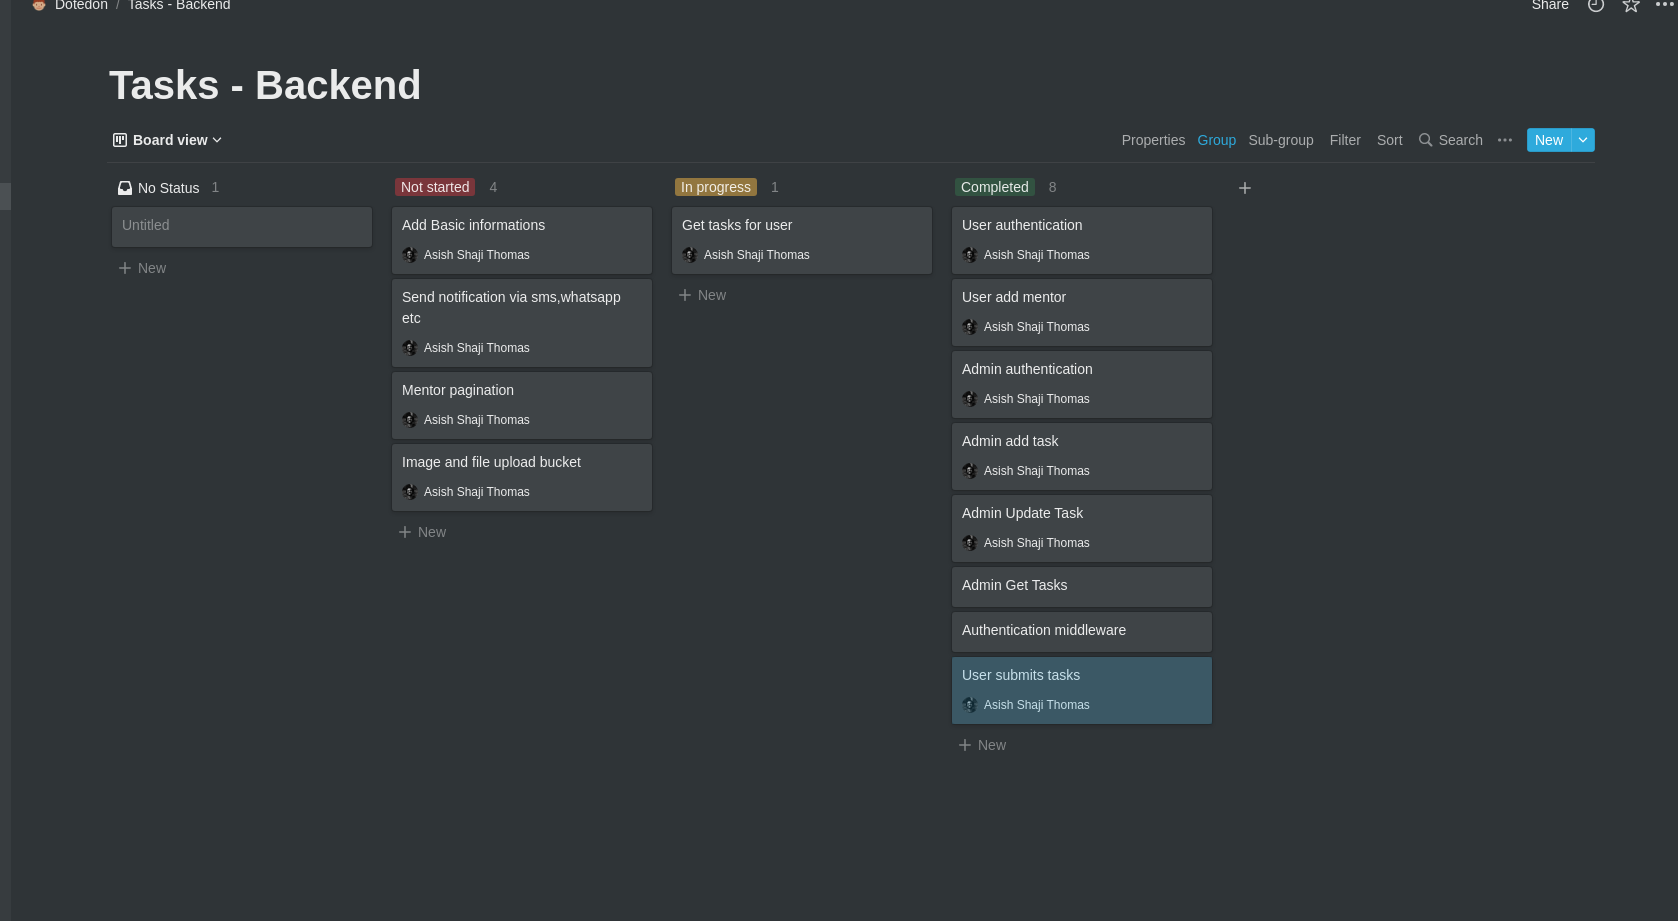
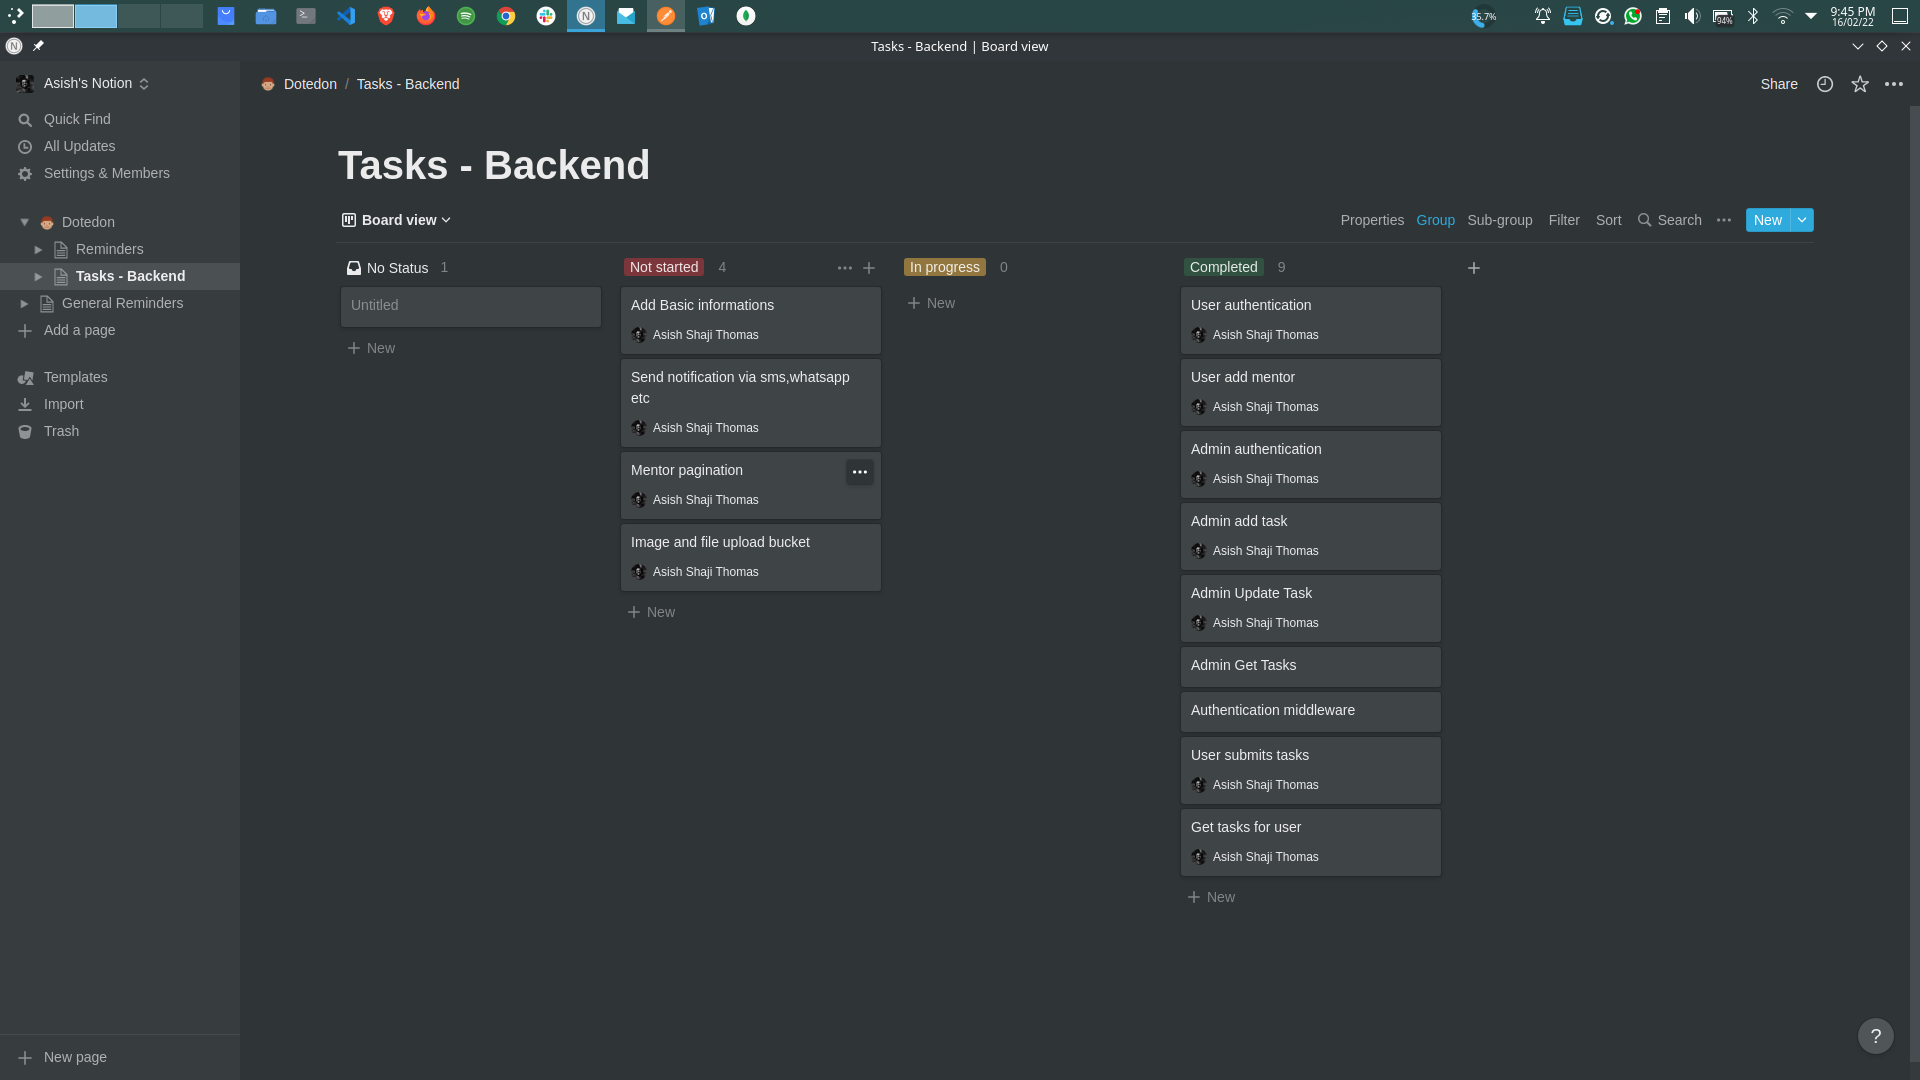
User: Get tasks for user

diff --git a/models/core.go b/models/core.go
@@ -36,10 +36,18 @@ type Admin struct {
 	Password string             `json:"-"`
 }
 
+type PreferedType string
+
+const (
+	EDTECH PreferedType = "ed-tech"
+	RETAIL PreferedType = "retail"
+)
+
 type Student struct {
 	ID               primitive.ObjectID   `bson:"_id" json:"_id"`
 	Username         string               `json:"username" validate:"required"`
 	FirstName        string               `json:"first_name" validate:"required"`
+	PreferedType     PreferedType         `json:"type"`
 	LastName         string               `json:"last_name" validate:"required"`
 	MiddleName       string               `json:"middle_name"`
 	CreatedAt        primitive.DateTime   `json:"-"`
@@ -67,6 +75,7 @@ var ErrStudentExists = fmt.Errorf("Student already exists")
 var ErrInvalidCredentials = fmt.Errorf("Invalid credentials")
 var ErrNoStudentExists = fmt.Errorf("No Student with given studentname")
 var ErrNoStudentWithIdExists = fmt.Errorf("No Student with id exists")
+var ErrParsingStudent = fmt.Errorf("Error parsing student data from database")
 
 var ErrNoAdminWithUsername = fmt.Errorf("No admin with username exists")
 
@@ -138,11 +147,11 @@ type TaskSubmissionDTO struct {
 }
 
 type TaskSubmission struct {
-	UserId  primitive.ObjectID
-	TaskId  primitive.ObjectID
-	Comment string
-	FileURL string
-	Status  Status
+	UserId  primitive.ObjectID `json:"userid"`
+	TaskId  primitive.ObjectID `json:"taskid"`
+	Comment string             `json:"comment"`
+	FileURL string             `json:"fileurl"`
+	Status  Status             `json:"status"`
 }
 
 var ErrTaskSubmissionExists = fmt.Errorf("Task submission already exists")

diff --git a/services/student/student_service.go b/services/student/student_service.go
@@ -135,15 +135,48 @@ func (sS StudentService) TaskSubmission(ctx context.Context, taskDto models.Task
 	return nil
 }
 
-func (sS StudentService) GetTasks(ctx context.Context, studentId primitive.ObjectID) error {
+func (sS StudentService) GetTasks(ctx context.Context, studentId primitive.ObjectID) ([]models.TaskStudentResponse, error) {
 
-	typeVar := ""
+	taskStudentResponse := []models.TaskStudentResponse{}
 
-	tasks, err := sS.studentRepo.GetTasks(ctx, typeVar)
-	sS.l.Println(tasks)
+	student, err := sS.studentRepo.GetStudentByID(ctx, studentId)
+
 	if err != nil {
-		return err
+		return nil, err
 	}
 
-	return nil
+	taskSubmission, err := sS.studentRepo.GetTaskSubmissions(ctx, studentId)
+	if err != nil {
+		return nil, err
+	}
+
+	tasks, err := sS.studentRepo.GetTasks(ctx, string(student.PreferedType))
+	if err != nil {
+		return nil, err
+	}
+
+	for _, t := range tasks {
+
+		fileUrl, comment := getFileAndCommentsForTaskIdAndUserId(taskSubmission, t.Id, studentId)
+		taskStudentResponse = append(taskStudentResponse, models.TaskStudentResponse{
+			ID:        t.Id,
+			Title:     t.Title,
+			Detail:    t.Detail,
+			Status:    models.Status(t.Type),
+			FileURL:   fileUrl,
+			Comments:  comment,
+			UpdatedAt: "",
+		})
+	}
+
+	return taskStudentResponse, nil
+}
+
+func getFileAndCommentsForTaskIdAndUserId(tS []models.TaskSubmission, taskID, userID primitive.ObjectID) (string, string) {
+	for _, t := range tS {
+		if t.TaskId == taskID && t.UserId == userID {
+			return t.FileURL, t.Comment
+		}
+	}
+	return "", ""
 }

diff --git a/repositories/student/student_repo.go b/repositories/student/student_repo.go
@@ -143,6 +143,7 @@ func (sR studentRepo) GetTasks(ctx context.Context, typeVar string) ([]models.Ta
 	cursor, err := sR.taskCollection.Find(ctx, bson.M{
 		"type": typeVar,
 	})
+
 	if err != nil {
 		sR.l.Println(err)
 		return nil, err
@@ -158,7 +159,8 @@ func (sR studentRepo) GetTasks(ctx context.Context, typeVar string) ([]models.Ta
 
 func (sR studentRepo) GetTaskSubmissions(ctx context.Context, userId primitive.ObjectID) ([]models.TaskSubmission, error) {
 	submissions := []models.TaskSubmission{}
-	cursor, err := sR.taskCollection.Find(ctx, bson.M{
+	sR.l.Println(userId)
+	cursor, err := sR.taskSubmissionCollection.Find(ctx, bson.M{
 		"userid": userId,
 	})
 	if err != nil {
@@ -171,4 +173,25 @@ func (sR studentRepo) GetTaskSubmissions(ctx context.Context, userId primitive.O
 		return nil, err
 	}
 	return submissions, nil
+}
+
+func (sR studentRepo) GetStudentByID(ctx context.Context, studentID primitive.ObjectID) (*models.Student, error) {
+
+	student := new(models.Student)
+
+	res := sR.studentCollection.FindOne(ctx, bson.M{
+		"_id": studentID,
+	})
+	if res.Err() == mongo.ErrNoDocuments {
+		sR.l.Println(res.Err())
+		return nil, models.ErrNoStudentWithIdExists
+	}
+
+	err := res.Decode(&student)
+	if err != nil {
+		return nil, models.ErrParsingStudent
+	}
+
+	return student, nil
+
 }

diff --git a/models/response.go b/models/response.go
@@ -34,3 +34,13 @@ type MentorResponse struct {
 	Domain       string             `json:"domain"`
 	CreatedAt    primitive.DateTime `json:"created_at"`
 }
+
+type TaskStudentResponse struct {
+	ID        primitive.ObjectID `json:"_id"`
+	Title     string             `json:"title"`
+	Detail    string             `json:"detail"`
+	Status    Status             `json:"status"`
+	FileURL   string             `json:"file_url"`
+	Comments  string             `json:"comments"`
+	UpdatedAt string             `json:"updated_at"`
+}

diff --git a/services/student/student_service_interface.go b/services/student/student_service_interface.go
@@ -13,5 +13,5 @@ type IStudentService interface {
 	GetMentors(ctx context.Context) ([]*models.MentorResponse, error)
 	AddMentorToStudent(ctx context.Context, studentId, mentorId primitive.ObjectID) error
 	TaskSubmission(ctx context.Context, taskDto models.TaskSubmissionDTO, userID primitive.ObjectID) error
-	GetTasks(ctx context.Context, studentId primitive.ObjectID) error
+	GetTasks(ctx context.Context, studentId primitive.ObjectID) ([]models.TaskStudentResponse, error)
 }

diff --git a/app.go b/app.go
@@ -45,6 +45,7 @@ func NewApp(port string, controller Controllers) *App {
 	r.GET("/mentors", controller.StudentController.GetMentors)
 	r.POST("/mentors", controller.StudentController.AddMentorToStudent)
 	r.POST("/task/submit", controller.StudentController.TaskSubmission)
+	r.GET("/task", controller.StudentController.GetTasks)
 
 	adminGroup := e.Group("/admin")
 	adminGroup.POST("/login", controller.AdminController.Login)

diff --git a/controller/student/student_controller.go b/controller/student/student_controller.go
@@ -136,5 +136,11 @@ func (sU StudentController) TaskSubmission(c echo.Context) error {
 
 func (sC StudentController) GetTasks(c echo.Context) error {
 
-	return nil
+	taskStudentResponseArr, err := sC.studentService.GetTasks(c.Request().Context(), c.Get("student_id").(primitive.ObjectID))
+	if err != nil {
+		return echo.ErrInternalServerError
+	}
+
+	return c.JSON(http.StatusOK, taskStudentResponseArr)
+
 }

diff --git a/repositories/student/student_repo_interface.go b/repositories/student/student_repo_interface.go
@@ -16,4 +16,5 @@ type IStudentRepository interface {
 	TaskSubmission(ctx context.Context, task models.TaskSubmission) error
 	GetTasks(ctx context.Context, typeVar string) ([]models.Task, error)
 	GetTaskSubmissions(ctx context.Context, userId primitive.ObjectID) ([]models.TaskSubmission, error)
+	GetStudentByID(ctx context.Context, studentID primitive.ObjectID) (*models.Student, error)
 }

diff --git a/utils/commons.go b/utils/commons.go
@@ -1,0 +1,1 @@
+package utils
